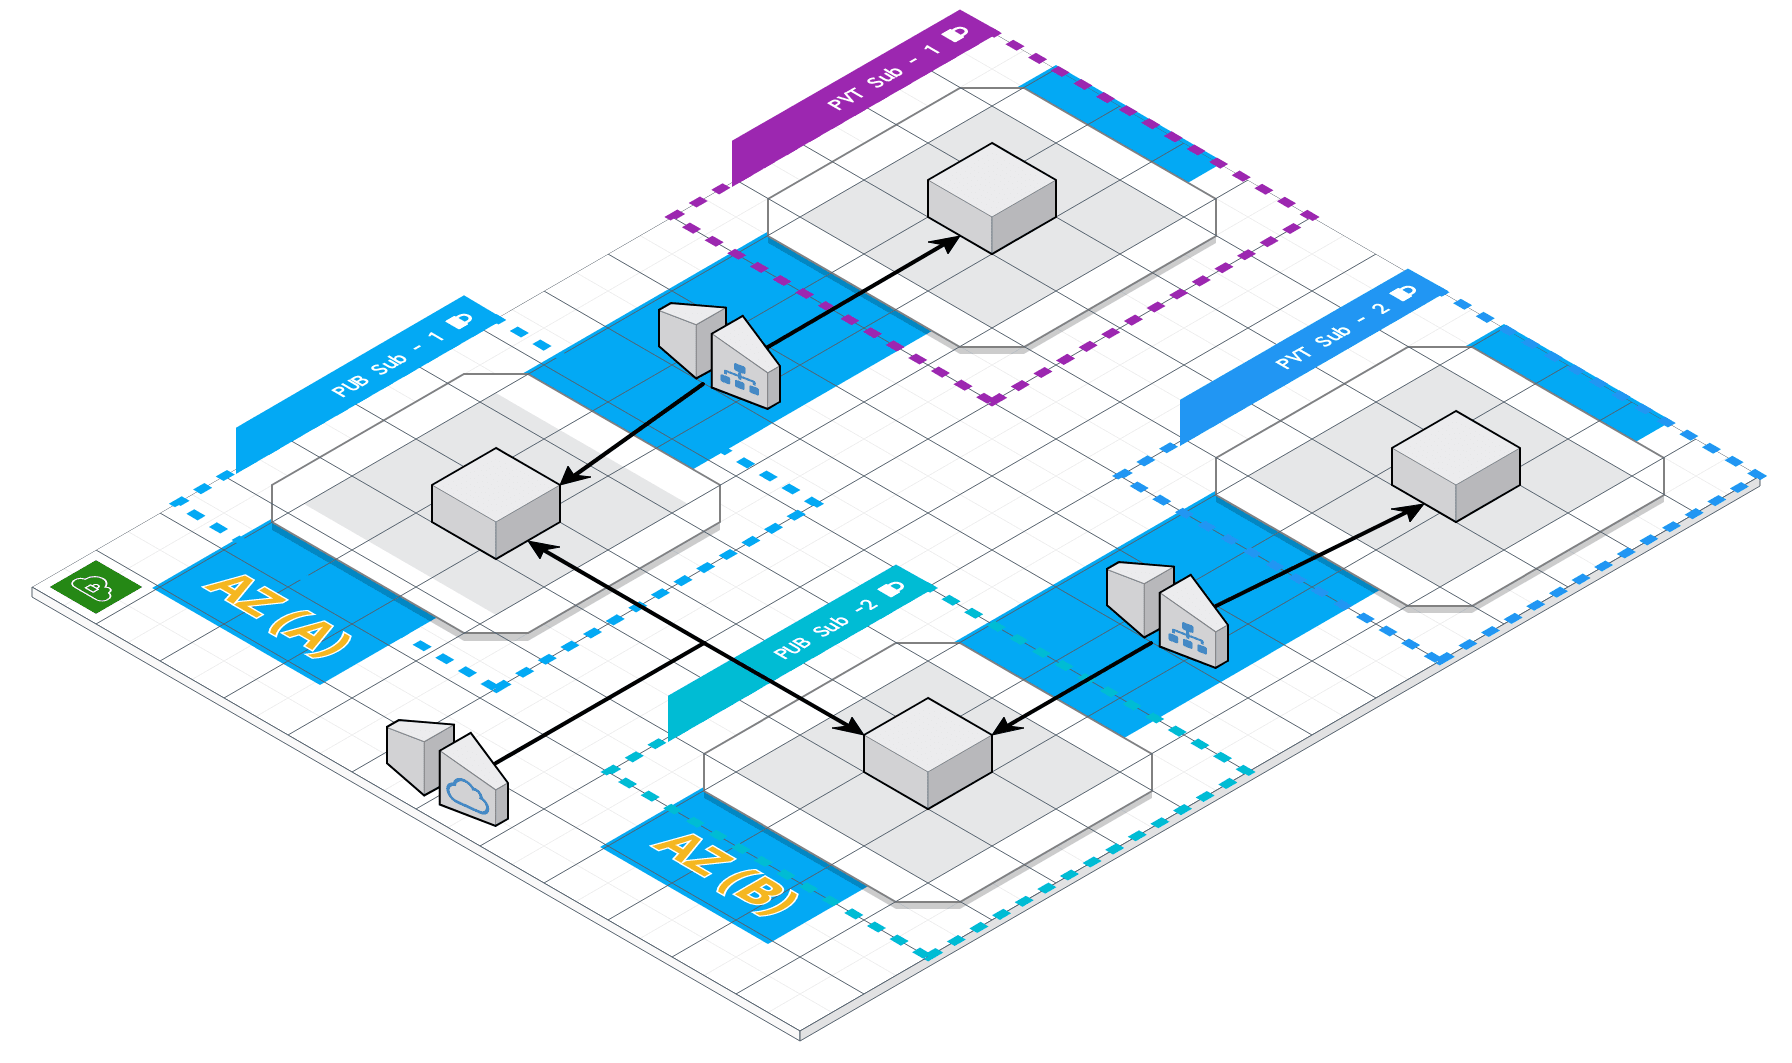
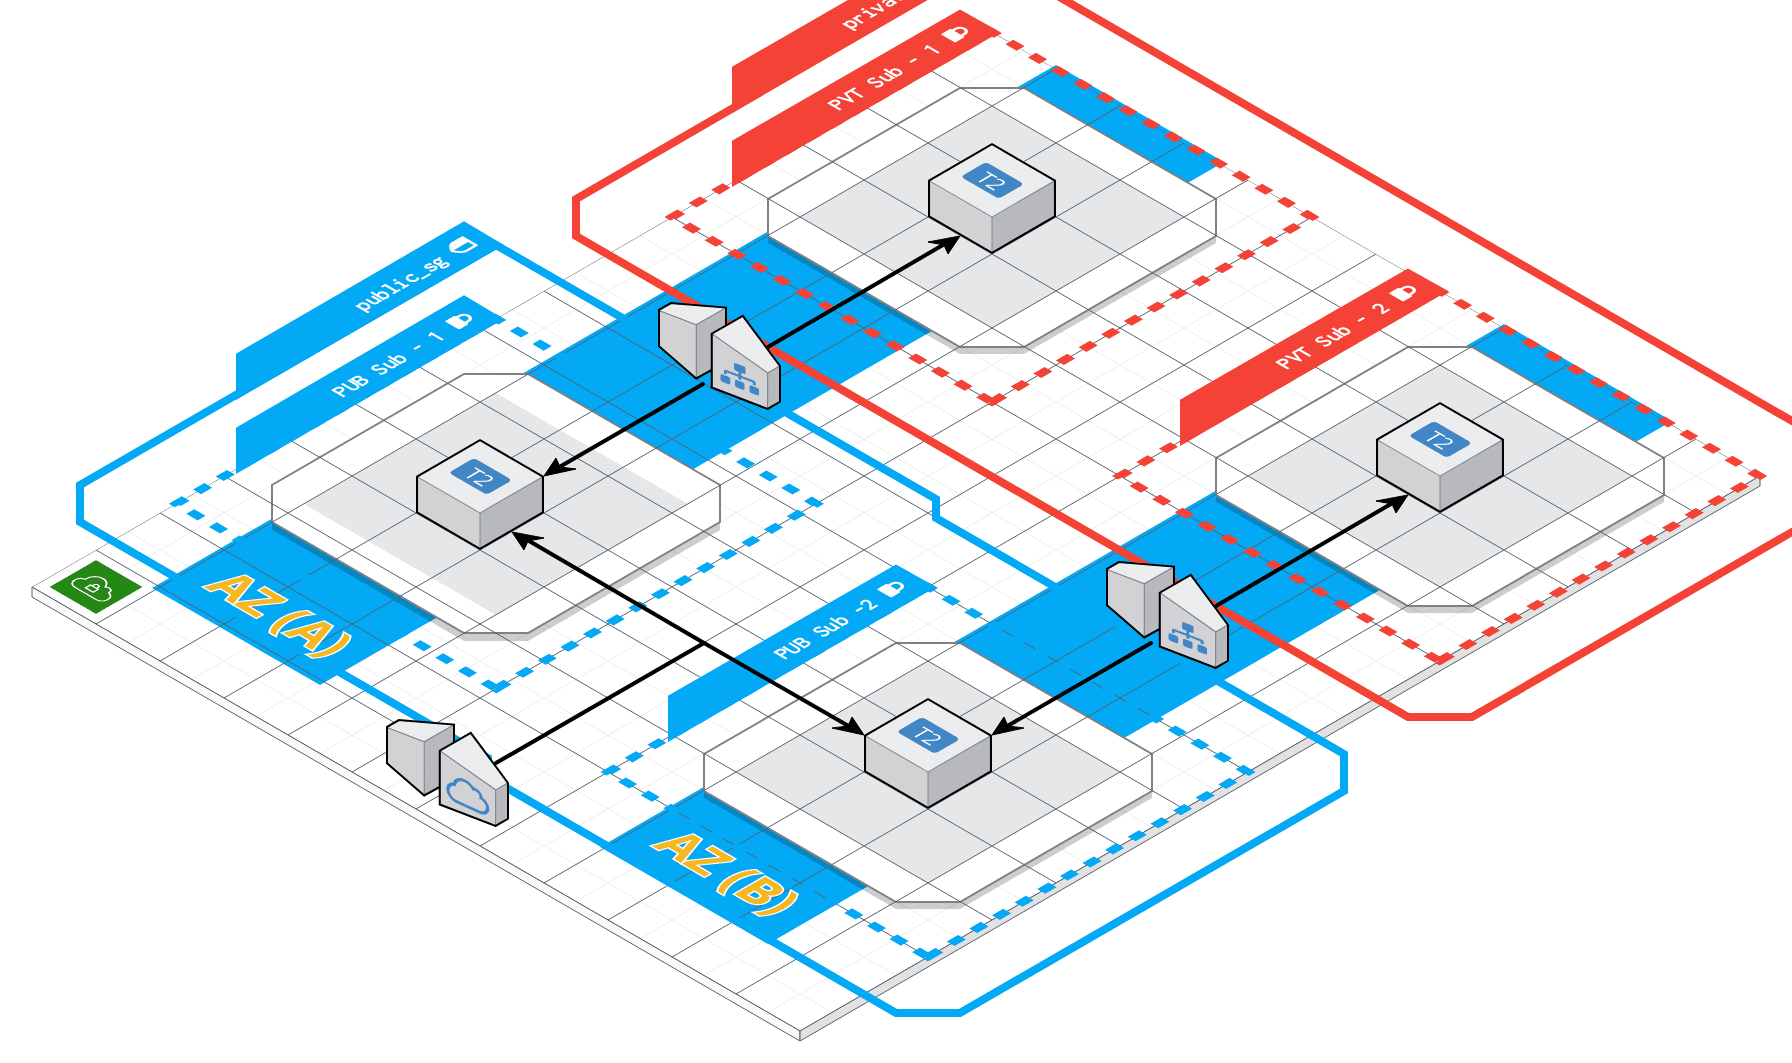
add insrances, sg, key_pair, etc

diff --git a/README.md b/README.md
@@ -1,7 +1,7 @@
 # HA-VPC
 > High availability architecture for AWS.
 
-Just a basic vpc with 4 subnets (2 publics and 2 privates) in 2 differents availability zones (A & B) connected with nat gateways, internet gateways, route tables, etc.
+Vpc with 4 subnets (2 publics and 2 privates) in 2 differents availability zones (A & B) connected with nat gateways, internet gateways, route tables, etc.
 
 Terraform and AWS practice.
 
@@ -10,7 +10,7 @@ Terraform and AWS practice.
 ### Prerequisites
 
 - terraform (version used v0.13.4)
-- aws account
+- AWS account
 
 On `~/.aws/credentials`
 ```
@@ -19,9 +19,14 @@ aws_access_key_id=YOUR_ACCESS_KEY_ID
 aws_secret_access_key=YOUR_SECRET_ACCESS_KEY
 ```
 
-## Deployment
+## Deploy
 ```sh
 ./deploy.sh
+```
+
+### Connecting to your Linux instance using SSH
+```sh
+ssh -i ./private/ssh/key_access.pem -A ubuntu@[instance IP]
 ```
 
 ## Destroy
